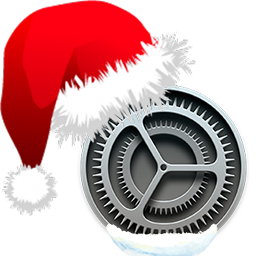
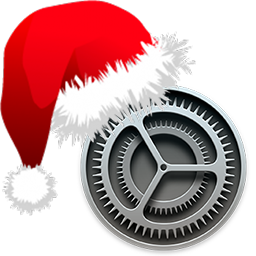
Add workflow & remove snow pile

Changed region(s): [[0.4062, 0.875, 0.875, 1.0]]

diff --git a/buildicns.py b/buildicns.py
@@ -1,0 +1,22 @@
+import os
+import subprocess
+
+sourceLocation = "Source/png"
+sourcePath = os.path.join(os.getcwd(), sourceLocation)
+exportLocation = "Export"
+exportPngLocation = "png"
+exportIcnsLocation = "icns"
+exportPath = os.path.join(os.getcwd(), exportLocation)
+exportPngPath = os.path.join(exportPath, exportPngLocation)
+exportIcnsPath = os.path.join(exportPath, exportIcnsLocation)
+pngOrigLocation = "Source/pngOrig"
+pngOrigPath = os.path.join(os.getcwd(), pngOrigLocation)
+toolsLocation = "Source/Tools"
+toolsPath = os.path.join(os.getcwd(), toolsLocation)
+
+for imageFile in os.listdir(exportPngPath):
+    # call subprocess to run icnspack
+    icnsPackPath = os.path.join(toolsPath, "icnspack")
+    icnsFilePath = os.path.join(exportIcnsPath, imageFile.replace(".png", ".icns"))
+    pngFilePath = os.path.join(exportPngPath, imageFile)
+    subprocess.call([icnsPackPath, icnsFilePath, pngFilePath, pngFilePath])
